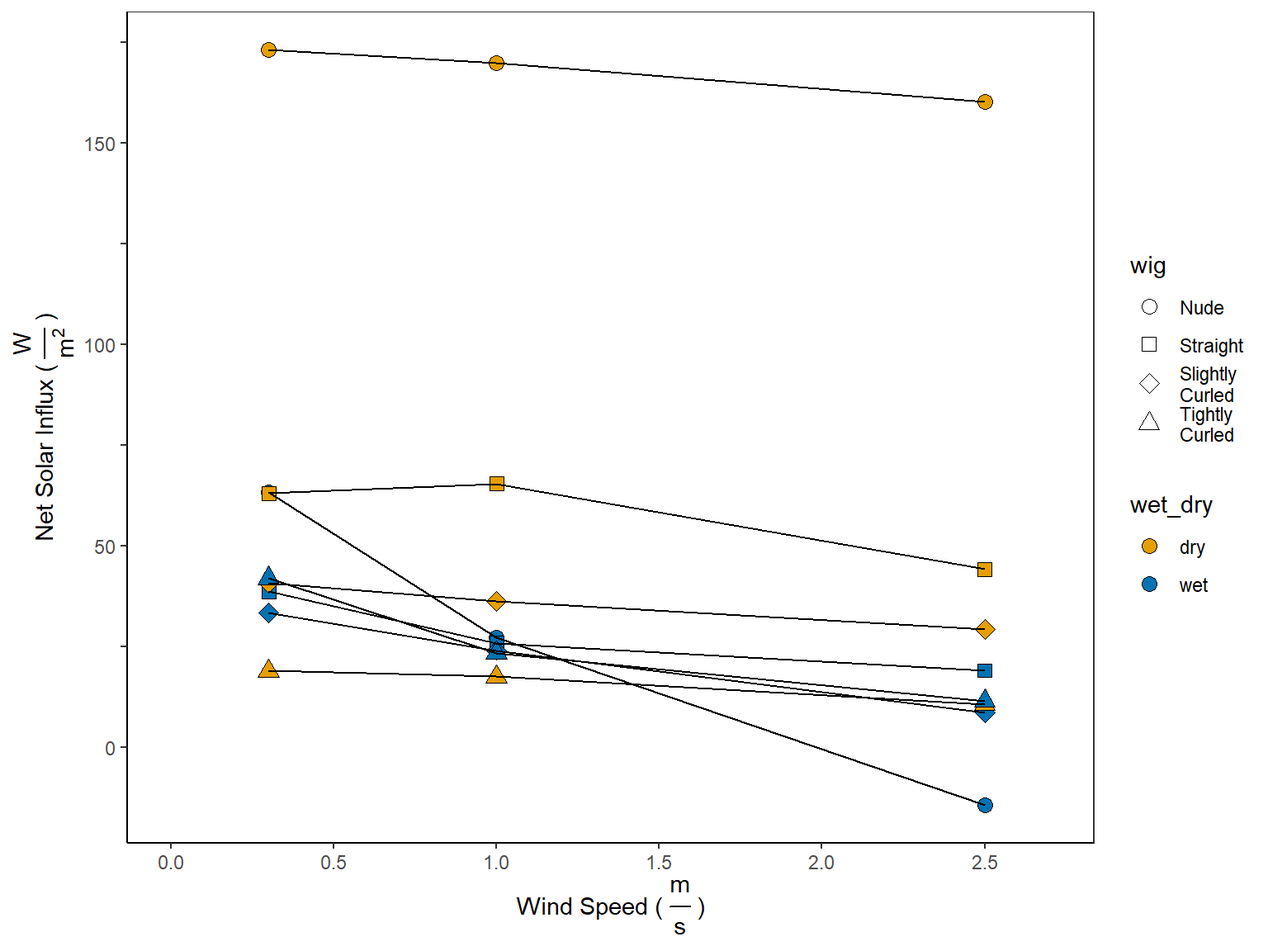
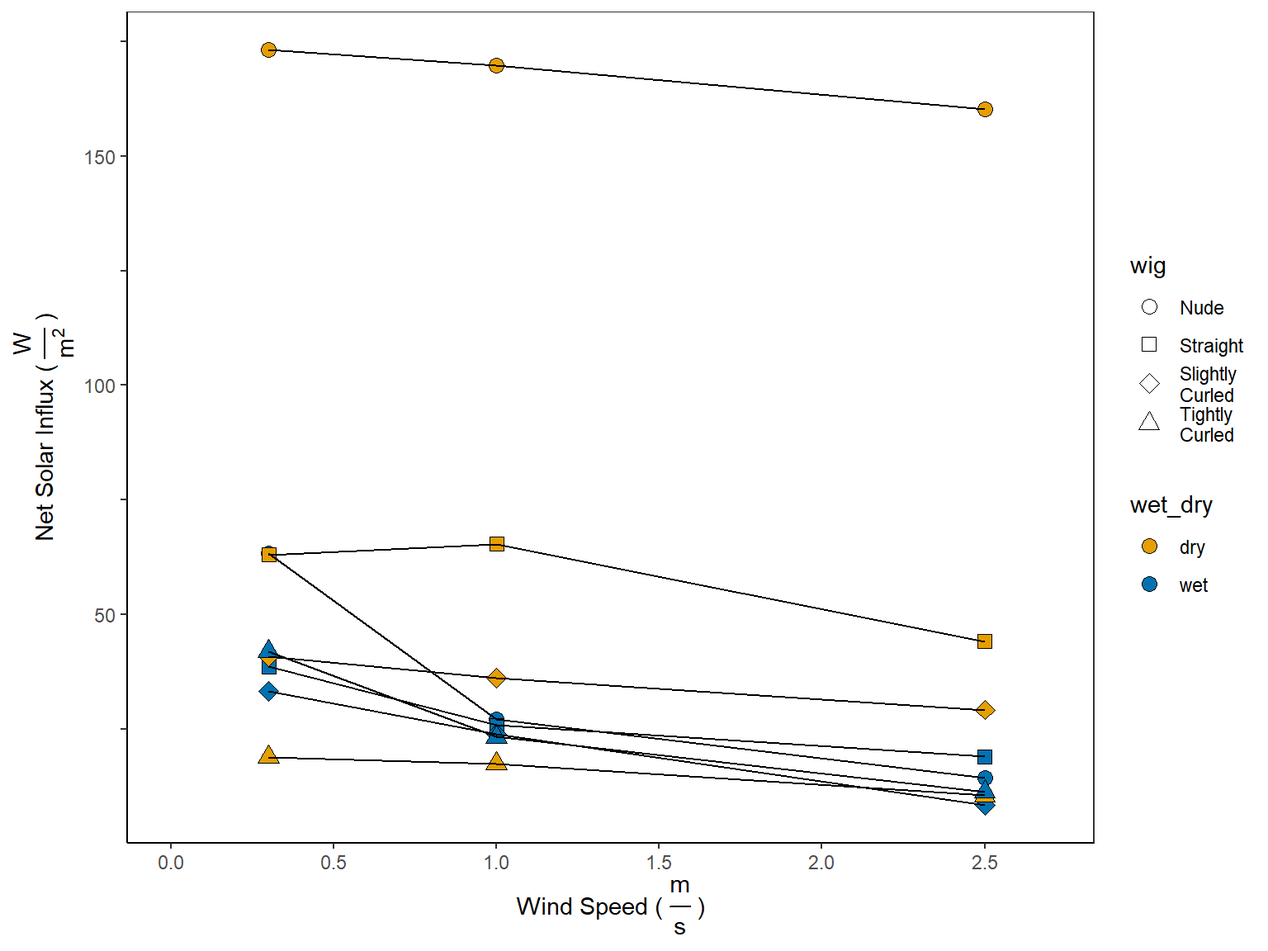
Fixed data input.

diff --git a/docs/analysis.html b/docs/analysis.html
@@ -522,15 +522,15 @@ project makes it easier to run your code on other machines.</p>
 <div class="panel panel-default">
 <div class="panel-heading">
 <p class="panel-title">
-<a data-toggle="collapse" data-parent="#workflowr-checks" href="#strongRepositoryversionstrongahrefhttpsgithubcomtinalasisiHairManikin2022tree993259136b4fb172cd362d89a44917e5fa0434betargetblank9932591a">
+<a data-toggle="collapse" data-parent="#workflowr-checks" href="#strongRepositoryversionstrongahrefhttpsgithubcomtinalasisiHairManikin2022tree60ac80ebbcab4e6ff3f059f82b27285690165adetargetblank60ac80ea">
 <span class="glyphicon glyphicon-ok text-success"
 aria-hidden="true"></span> <strong>Repository version:</strong>
-<a href="https://github.com/tinalasisi/HairManikin2022/tree/993259136b4fb172cd362d89a44917e5fa0434be" target="_blank">9932591</a>
+<a href="https://github.com/tinalasisi/HairManikin2022/tree/60ac80ebbcab4e6ff3f059f82b27285690165ade" target="_blank">60ac80e</a>
 </a>
 </p>
 </div>
 <div
[2 lines of base64/hex data omitted]
 class="panel-collapse collapse">
 <div class="panel-body">
 <p>
@@ -540,7 +540,7 @@ reproducibility.
 </p>
 <p>
 The results in this page were generated with repository version
-<a href="https://github.com/tinalasisi/HairManikin2022/tree/993259136b4fb172cd362d89a44917e5fa0434be" target="_blank">9932591</a>.
+<a href="https://github.com/tinalasisi/HairManikin2022/tree/60ac80ebbcab4e6ff3f059f82b27285690165ade" target="_blank">60ac80e</a>.
 See the <em>Past versions</em> tab to see a history of the changes made
 to the R Markdown and HTML files.
 </p>
@@ -558,16 +558,12 @@ Ignored files:
     Ignored:    .Rproj.user/
 
 Untracked files:
-    Untracked:  data/current/March2022Sheet.xlsx
-    Untracked:  data/current/reworked.csv
-    Untracked:  data/current/reworked.xlsx
-    Untracked:  data/current/reworkedUsable.csv
-    Untracked:  data/current/reworkedUsable2.csv
+    Untracked:  data/current/Aug2022.csv
     Untracked:  data/current/~$March2022Sheet.xlsx
-    Untracked:  dataPrep.rmd
 
 Unstaged changes:
     Modified:   analysis/analysis.Rmd
+    Modified:   analysis/dataPrep.rmd
 
 </code></pre>
 <p>
@@ -613,6 +609,76 @@ Message
 </tr>
 </thead>
 <tbody>
+<tr>
+<td>
+Rmd
+</td>
+<td>
+<a href="https://github.com/tinalasisi/HairManikin2022/blob/60ac80ebbcab4e6ff3f059f82b27285690165ade/analysis/analysis.Rmd" target="_blank">60ac80e</a>
+</td>
+<td>
+Ben Zydney
+</td>
+<td>
+2022-08-11
+</td>
+<td>
+Merge branch ‘main’ of <a
+href="https://github.com/tinalasisi/HairManikin2022"
+class="uri">https://github.com/tinalasisi/HairManikin2022</a>
+</td>
+</tr>
+<tr>
+<td>
+Rmd
+</td>
+<td>
+<a href="https://github.com/tinalasisi/HairManikin2022/blob/3a1d68cf44853b697e00dfc0536943e9ad45894e/analysis/analysis.Rmd" target="_blank">3a1d68c</a>
+</td>
+<td>
+Ben Zydney
+</td>
+<td>
+2022-08-11
+</td>
+<td>
+Updated analysis folder.
+</td>
+</tr>
+<tr>
+<td>
+html
+</td>
+<td>
+<a href="https://rawcdn.githack.com/tinalasisi/HairManikin2022/3a1d68cf44853b697e00dfc0536943e9ad45894e/docs/analysis.html" target="_blank">3a1d68c</a>
+</td>
+<td>
+Ben Zydney
+</td>
+<td>
+2022-08-11
+</td>
+<td>
+Updated analysis folder.
+</td>
+</tr>
+<tr>
+<td>
+Rmd
+</td>
+<td>
+<a href="https://github.com/tinalasisi/HairManikin2022/blob/78fb2fecfa3afacf6ee64f051bffbed28d9fe351/analysis/analysis.Rmd" target="_blank">78fb2fe</a>
+</td>
+<td>
+Tina Lasisi
+</td>
+<td>
+2022-08-11
+</td>
+<td>
+Updated plots + libraries
+</td>
+</tr>
 <tr>
 <td>
 html
@@ -1034,20 +1100,20 @@ Adding main analysis file
 <pre class="r"><code># Preview data
 head(df_wetdry)</code></pre>
 <table class="huxtable" style="border-collapse: collapse; border: 0px; margin-bottom: 2em; margin-top: 2em; ; margin-left: auto; margin-right: auto;  " id="tab:Data Preview">
-<col><col><col><col><col><col><col><col><col><col><col><col><tr>
-<th style="vertical-align: top; text-align: right; white-space: normal; border-style: solid solid solid solid; border-width: 0.4pt 0pt 0.4pt 0.4pt;    padding: 6pt 6pt 6pt 6pt; font-weight: bold;">wind</th><th style="vertical-align: top; text-align: left; white-space: normal; border-style: solid solid solid solid; border-width: 0.4pt 0pt 0.4pt 0pt;    padding: 6pt 6pt 6pt 6pt; font-weight: bold;">wig</th><th style="vertical-align: top; text-align: left; white-space: normal; border-style: solid solid solid solid; border-width: 0.4pt 0pt 0.4pt 0pt;    padding: 6pt 6pt 6pt 6pt; font-weight: bold;">wet_dry</th><th style="vertical-align: top; text-align: right; white-space: normal; border-style: solid solid solid solid; border-width: 0.4pt 0pt 0.4pt 0pt;    padding: 6pt 6pt 6pt 6pt; font-weight: bold;">heat_loss</th><th style="vertical-align: top; text-align: right; white-space: normal; border-style: solid solid solid solid; border-width: 0.4pt 0pt 0.4pt 0pt;    padding: 6pt 6pt 6pt 6pt; font-weight: bold;">skin_temp</th><th style="vertical-align: top; text-align: right; white-space: normal; border-style: solid solid solid solid; border-width: 0.4pt 0pt 0.4pt 0pt;    padding: 6pt 6pt 6pt 6pt; font-weight: bold;">resistance</th><th style="vertical-align: top; text-align: right; white-space: normal; border-style: solid solid solid solid; border-width: 0.4pt 0pt 0.4pt 0pt;    padding: 6pt 6pt 6pt 6pt; font-weight: bold;">clo</th><th style="vertical-align: top; text-align: right; white-space: normal; border-style: solid solid solid solid; border-width: 0.4pt 0pt 0.4pt 0pt;    padding: 6pt 6pt 6pt 6pt; font-weight: bold;">Mean Tsk (sel zones)</th><th style="vertical-align: top; text-align: right; white-space: normal; border-style: solid solid solid solid; border-width: 0.4pt 0pt 0.4pt 0pt;    padding: 6pt 6pt 6pt 6pt; font-weight: bold;">amb_temp</th><th style="vertical-align: top; text-align: right; white-space: normal; border-style: solid solid solid solid; border-width: 0.4pt 0pt 0.4pt 0pt;    padding: 6pt 6pt 6pt 6pt; font-weight: bold;">amb_rh</th><th style="vertical-align: top; text-align: left; white-space: normal; border-style: solid solid solid solid; border-width: 0.4pt 0pt 0.4pt 0pt;    padding: 6pt 6pt 6pt 6pt; font-weight: bold;">radiation</th><th style="vertical-align: top; text-align: left; white-space: normal; border-style: solid solid solid solid; border-width: 0.4pt 0.4pt 0.4pt 0pt;    padding: 6pt 6pt 6pt 6pt; font-weight: bold;">trial</th></tr>
+<col><col><col><col><col><col><col><col><col><col><col><tr>
+<th style="vertical-align: top; text-align: right; white-space: normal; border-style: solid solid solid solid; border-width: 0.4pt 0pt 0.4pt 0.4pt;    padding: 6pt 6pt 6pt 6pt; font-weight: bold;">wind</th><th style="vertical-align: top; text-align: left; white-space: normal; border-style: solid solid solid solid; border-width: 0.4pt 0pt 0.4pt 0pt;    padding: 6pt 6pt 6pt 6pt; font-weight: bold;">wig</th><th style="vertical-align: top; text-align: left; white-space: normal; border-style: solid solid solid solid; border-width: 0.4pt 0pt 0.4pt 0pt;    padding: 6pt 6pt 6pt 6pt; font-weight: bold;">wet_dry</th><th style="vertical-align: top; text-align: right; white-space: normal; border-style: solid solid solid solid; border-width: 0.4pt 0pt 0.4pt 0pt;    padding: 6pt 6pt 6pt 6pt; font-weight: bold;">heat_loss</th><th style="vertical-align: top; text-align: right; white-space: normal; border-style: solid solid solid solid; border-width: 0.4pt 0pt 0.4pt 0pt;    padding: 6pt 6pt 6pt 6pt; font-weight: bold;">skin_temp</th><th style="vertical-align: top; text-align: right; white-space: normal; border-style: solid solid solid solid; border-width: 0.4pt 0pt 0.4pt 0pt;    padding: 6pt 6pt 6pt 6pt; font-weight: bold;">resistance</th><th style="vertical-align: top; text-align: right; white-space: normal; border-style: solid solid solid solid; border-width: 0.4pt 0pt 0.4pt 0pt;    padding: 6pt 6pt 6pt 6pt; font-weight: bold;">clo</th><th style="vertical-align: top; text-align: right; white-space: normal; border-style: solid solid solid solid; border-width: 0.4pt 0pt 0.4pt 0pt;    padding: 6pt 6pt 6pt 6pt; font-weight: bold;">amb_temp</th><th style="vertical-align: top; text-align: right; white-space: normal; border-style: solid solid solid solid; border-width: 0.4pt 0pt 0.4pt 0pt;    padding: 6pt 6pt 6pt 6pt; font-weight: bold;">amb_rh</th><th style="vertical-align: top; text-align: left; white-space: normal; border-style: solid solid solid solid; border-width: 0.4pt 0pt 0.4pt 0pt;    padding: 6pt 6pt 6pt 6pt; font-weight: bold;">radiation</th><th style="vertical-align: top; text-align: left; white-space: normal; border-style: solid solid solid solid; border-width: 0.4pt 0.4pt 0.4pt 0pt;    padding: 6pt 6pt 6pt 6pt; font-weight: bold;">trial</th></tr>
 <tr>
-<td style="vertical-align: top; text-align: right; white-space: normal; border-style: solid solid solid solid; border-width: 0.4pt 0pt 0pt 0.4pt;    padding: 6pt 6pt 6pt 6pt; background-color: rgb(242, 242, 242); font-weight: normal;">0.3</td><td style="vertical-align: top; text-align: left; white-space: normal; border-style: solid solid solid solid; border-width: 0.4pt 0pt 0pt 0pt;    padding: 6pt 6pt 6pt 6pt; background-color: rgb(242, 242, 242); font-weight: normal;">Nude</td><td style="vertical-align: top; text-align: left; white-space: normal; border-style: solid solid solid solid; border-width: 0.4pt 0pt 0pt 0pt;    padding: 6pt 6pt 6pt 6pt; background-color: rgb(242, 242, 242); font-weight: normal;">wet</td><td style="vertical-align: top; text-align: right; white-space: normal; border-style: solid solid solid solid; border-width: 0.4pt 0pt 0pt 0pt;    padding: 6pt 6pt 6pt 6pt; background-color: rgb(242, 242, 242); font-weight: normal;">90.9</td><td style="vertical-align: top; text-align: right; white-space: normal; border-style: solid solid solid solid; border-width: 0.4pt 0pt 0pt 0pt;    padding: 6pt 6pt 6pt 6pt; background-color: rgb(242, 242, 242); font-weight: normal;">34</td><td style="vertical-align: top; text-align: right; white-space: normal; border-style: solid solid solid solid; border-width: 0.4pt 0pt 0pt 0pt;    padding: 6pt 6pt 6pt 6pt; background-color: rgb(242, 242, 242); font-weight: normal;">4.36e-08</td><td style="vertical-align: top; text-align: right; white-space: normal; border-style: solid solid solid solid; border-width: 0.4pt 0pt 0pt 0pt;    padding: 6pt 6pt 6pt 6pt; background-color: rgb(242, 242, 242); font-weight: normal;">2.81e-07</td><td style="vertical-align: top; text-align: right; white-space: normal; border-style: solid solid solid solid; border-width: 0.4pt 0pt 0pt 0pt;    padding: 6pt 6pt 6pt 6pt; background-color: rgb(242, 242, 242); font-weight: normal;">34.2</td><td style="vertical-align: top; text-align: right; white-space: normal; border-style: solid solid solid solid; border-width: 0.4pt 0pt 0pt 0pt;    padding: 6pt 6pt 6pt 6pt; background-color: rgb(242, 242, 242); font-weight: normal;">34&nbsp;&nbsp;</td><td style="vertical-align: top; text-align: right; white-space: normal; border-style: solid solid solid solid; border-width: 0.4pt 0pt 0pt 0pt;    padding: 6pt 6pt 6pt 6pt; background-color: rgb(242, 242, 242); font-weight: normal;">45.8</td><td style="vertical-align: top; text-align: left; white-space: normal; border-style: solid solid solid solid; border-width: 0.4pt 0pt 0pt 0pt;    padding: 6pt 6pt 6pt 6pt; background-color: rgb(242, 242, 242); font-weight: normal;">on</td><td style="vertical-align: top; text-align: left; white-space: normal; border-style: solid solid solid solid; border-width: 0.4pt 0.4pt 0pt 0pt;    padding: 6pt 6pt 6pt 6pt; background-color: rgb(242, 242, 242); font-weight: normal;">1</td></tr>
+<td style="vertical-align: top; text-align: right; white-space: normal; border-style: solid solid solid solid; border-width: 0.4pt 0pt 0pt 0.4pt;    padding: 6pt 6pt 6pt 6pt; background-color: rgb(242, 242, 242); font-weight: normal;">0.3</td><td style="vertical-align: top; text-align: left; white-space: normal; border-style: solid solid solid solid; border-width: 0.4pt 0pt 0pt 0pt;    padding: 6pt 6pt 6pt 6pt; background-color: rgb(242, 242, 242); font-weight: normal;">Nude</td><td style="vertical-align: top; text-align: left; white-space: normal; border-style: solid solid solid solid; border-width: 0.4pt 0pt 0pt 0pt;    padding: 6pt 6pt 6pt 6pt; background-color: rgb(242, 242, 242); font-weight: normal;">wet</td><td style="vertical-align: top; text-align: right; white-space: normal; border-style: solid solid solid solid; border-width: 0.4pt 0pt 0pt 0pt;    padding: 6pt 6pt 6pt 6pt; background-color: rgb(242, 242, 242); font-weight: normal;">90.9</td><td style="vertical-align: top; text-align: right; white-space: normal; border-style: solid solid solid solid; border-width: 0.4pt 0pt 0pt 0pt;    padding: 6pt 6pt 6pt 6pt; background-color: rgb(242, 242, 242); font-weight: normal;">34</td><td style="vertical-align: top; text-align: right; white-space: normal; border-style: solid solid solid solid; border-width: 0.4pt 0pt 0pt 0pt;    padding: 6pt 6pt 6pt 6pt; background-color: rgb(242, 242, 242); font-weight: normal;">4.36e-08</td><td style="vertical-align: top; text-align: right; white-space: normal; border-style: solid solid solid solid; border-width: 0.4pt 0pt 0pt 0pt;    padding: 6pt 6pt 6pt 6pt; background-color: rgb(242, 242, 242); font-weight: normal;">2.81e-07</td><td style="vertical-align: top; text-align: right; white-space: normal; border-style: solid solid solid solid; border-width: 0.4pt 0pt 0pt 0pt;    padding: 6pt 6pt 6pt 6pt; background-color: rgb(242, 242, 242); font-weight: normal;">34&nbsp;&nbsp;</td><td style="vertical-align: top; text-align: right; white-space: normal; border-style: solid solid solid solid; border-width: 0.4pt 0pt 0pt 0pt;    padding: 6pt 6pt 6pt 6pt; background-color: rgb(242, 242, 242); font-weight: normal;">45.8</td><td style="vertical-align: top; text-align: left; white-space: normal; border-style: solid solid solid solid; border-width: 0.4pt 0pt 0pt 0pt;    padding: 6pt 6pt 6pt 6pt; background-color: rgb(242, 242, 242); font-weight: normal;">on</td><td style="vertical-align: top; text-align: left; white-space: normal; border-style: solid solid solid solid; border-width: 0.4pt 0.4pt 0pt 0pt;    padding: 6pt 6pt 6pt 6pt; background-color: rgb(242, 242, 242); font-weight: normal;">1</td></tr>
 <tr>
-<td style="vertical-align: top; text-align: right; white-space: normal; border-style: solid solid solid solid; border-width: 0pt 0pt 0pt 0.4pt;    padding: 6pt 6pt 6pt 6pt; font-weight: normal;">0.3</td><td style="vertical-align: top; text-align: left; white-space: normal; padding: 6pt 6pt 6pt 6pt; font-weight: normal;">Nude</td><td style="vertical-align: top; text-align: left; white-space: normal; padding: 6pt 6pt 6pt 6pt; font-weight: normal;">wet</td><td style="vertical-align: top; text-align: right; white-space: normal; padding: 6pt 6pt 6pt 6pt; font-weight: normal;">86.7</td><td style="vertical-align: top; text-align: right; white-space: normal; padding: 6pt 6pt 6pt 6pt; font-weight: normal;">34</td><td style="vertical-align: top; text-align: right; white-space: normal; padding: 6pt 6pt 6pt 6pt; font-weight: normal;">-0.00121&nbsp;</td><td style="vertical-align: top; text-align: right; white-space: normal; padding: 6pt 6pt 6pt 6pt; font-weight: normal;">-0.00782&nbsp;</td><td style="vertical-align: top; text-align: right; white-space: normal; padding: 6pt 6pt 6pt 6pt; font-weight: normal;">34.2</td><td style="vertical-align: top; text-align: right; white-space: normal; padding: 6pt 6pt 6pt 6pt; font-weight: normal;">34.1</td><td style="vertical-align: top; text-align: right; white-space: normal; padding: 6pt 6pt 6pt 6pt; font-weight: normal;">45.8</td><td style="vertical-align: top; text-align: left; white-space: normal; padding: 6pt 6pt 6pt 6pt; font-weight: normal;">on</td><td style="vertical-align: top; text-align: left; white-space: normal; border-style: solid solid solid solid; border-width: 0pt 0.4pt 0pt 0pt;    padding: 6pt 6pt 6pt 6pt; font-weight: normal;">2</td></tr>
+<td style="vertical-align: top; text-align: right; white-space: normal; border-style: solid solid solid solid; border-width: 0pt 0pt 0pt 0.4pt;    padding: 6pt 6pt 6pt 6pt; font-weight: normal;">0.3</td><td style="vertical-align: top; text-align: left; white-space: normal; padding: 6pt 6pt 6pt 6pt; font-weight: normal;">Nude</td><td style="vertical-align: top; text-align: left; white-space: normal; padding: 6pt 6pt 6pt 6pt; font-weight: normal;">wet</td><td style="vertical-align: top; text-align: right; white-space: normal; padding: 6pt 6pt 6pt 6pt; font-weight: normal;">86.7</td><td style="vertical-align: top; text-align: right; white-space: normal; padding: 6pt 6pt 6pt 6pt; font-weight: normal;">34</td><td style="vertical-align: top; text-align: right; white-space: normal; padding: 6pt 6pt 6pt 6pt; font-weight: normal;">-0.00121&nbsp;</td><td style="vertical-align: top; text-align: right; white-space: normal; padding: 6pt 6pt 6pt 6pt; font-weight: normal;">-0.00782&nbsp;</td><td style="vertical-align: top; text-align: right; white-space: normal; padding: 6pt 6pt 6pt 6pt; font-weight: normal;">34.1</td><td style="vertical-align: top; text-align: right; white-space: normal; padding: 6pt 6pt 6pt 6pt; font-weight: normal;">45.8</td><td style="vertical-align: top; text-align: left; white-space: normal; padding: 6pt 6pt 6pt 6pt; font-weight: normal;">on</td><td style="vertical-align: top; text-align: left; white-space: normal; border-style: solid solid solid solid; border-width: 0pt 0.4pt 0pt 0pt;    padding: 6pt 6pt 6pt 6pt; font-weight: normal;">2</td></tr>
 <tr>
-<td style="vertical-align: top; text-align: right; white-space: normal; border-style: solid solid solid solid; border-width: 0pt 0pt 0pt 0.4pt;    padding: 6pt 6pt 6pt 6pt; background-color: rgb(242, 242, 242); font-weight: normal;">1&nbsp;&nbsp;</td><td style="vertical-align: top; text-align: left; white-space: normal; padding: 6pt 6pt 6pt 6pt; background-color: rgb(242, 242, 242); font-weight: normal;">Nude</td><td style="vertical-align: top; text-align: left; white-space: normal; padding: 6pt 6pt 6pt 6pt; background-color: rgb(242, 242, 242); font-weight: normal;">wet</td><td style="vertical-align: top; text-align: right; white-space: normal; padding: 6pt 6pt 6pt 6pt; background-color: rgb(242, 242, 242); font-weight: normal;">227&nbsp;&nbsp;</td><td style="vertical-align: top; text-align: right; white-space: normal; padding: 6pt 6pt 6pt 6pt; background-color: rgb(242, 242, 242); font-weight: normal;">34</td><td style="vertical-align: top; text-align: right; white-space: normal; padding: 6pt 6pt 6pt 6pt; background-color: rgb(242, 242, 242); font-weight: normal;">0.000119</td><td style="vertical-align: top; text-align: right; white-space: normal; padding: 6pt 6pt 6pt 6pt; background-color: rgb(242, 242, 242); font-weight: normal;">0.000767</td><td style="vertical-align: top; text-align: right; white-space: normal; padding: 6pt 6pt 6pt 6pt; background-color: rgb(242, 242, 242); font-weight: normal;">34.2</td><td style="vertical-align: top; text-align: right; white-space: normal; padding: 6pt 6pt 6pt 6pt; background-color: rgb(242, 242, 242); font-weight: normal;">34&nbsp;&nbsp;</td><td style="vertical-align: top; text-align: right; white-space: normal; padding: 6pt 6pt 6pt 6pt; background-color: rgb(242, 242, 242); font-weight: normal;">46.3</td><td style="vertical-align: top; text-align: left; white-space: normal; padding: 6pt 6pt 6pt 6pt; background-color: rgb(242, 242, 242); font-weight: normal;">on</td><td style="vertical-align: top; text-align: left; white-space: normal; border-style: solid solid solid solid; border-width: 0pt 0.4pt 0pt 0pt;    padding: 6pt 6pt 6pt 6pt; background-color: rgb(242, 242, 242); font-weight: normal;">1</td></tr>
+<td style="vertical-align: top; text-align: right; white-space: normal; border-style: solid solid solid solid; border-width: 0pt 0pt 0pt 0.4pt;    padding: 6pt 6pt 6pt 6pt; background-color: rgb(242, 242, 242); font-weight: normal;">1&nbsp;&nbsp;</td><td style="vertical-align: top; text-align: left; white-space: normal; padding: 6pt 6pt 6pt 6pt; background-color: rgb(242, 242, 242); font-weight: normal;">Nude</td><td style="vertical-align: top; text-align: left; white-space: normal; padding: 6pt 6pt 6pt 6pt; background-color: rgb(242, 242, 242); font-weight: normal;">wet</td><td style="vertical-align: top; text-align: right; white-space: normal; padding: 6pt 6pt 6pt 6pt; background-color: rgb(242, 242, 242); font-weight: normal;">227&nbsp;&nbsp;</td><td style="vertical-align: top; text-align: right; white-space: normal; padding: 6pt 6pt 6pt 6pt; background-color: rgb(242, 242, 242); font-weight: normal;">34</td><td style="vertical-align: top; text-align: right; white-space: normal; padding: 6pt 6pt 6pt 6pt; background-color: rgb(242, 242, 242); font-weight: normal;">0.000119</td><td style="vertical-align: top; text-align: right; white-space: normal; padding: 6pt 6pt 6pt 6pt; background-color: rgb(242, 242, 242); font-weight: normal;">0.000767</td><td style="vertical-align: top; text-align: right; white-space: normal; padding: 6pt 6pt 6pt 6pt; background-color: rgb(242, 242, 242); font-weight: normal;">34&nbsp;&nbsp;</td><td style="vertical-align: top; text-align: right; white-space: normal; padding: 6pt 6pt 6pt 6pt; background-color: rgb(242, 242, 242); font-weight: normal;">46.3</td><td style="vertical-align: top; text-align: left; white-space: normal; padding: 6pt 6pt 6pt 6pt; background-color: rgb(242, 242, 242); font-weight: normal;">on</td><td style="vertical-align: top; text-align: left; white-space: normal; border-style: solid solid solid solid; border-width: 0pt 0.4pt 0pt 0pt;    padding: 6pt 6pt 6pt 6pt; background-color: rgb(242, 242, 242); font-weight: normal;">1</td></tr>
 <tr>
-<td style="vertical-align: top; text-align: right; white-space: normal; border-style: solid solid solid solid; border-width: 0pt 0pt 0pt 0.4pt;    padding: 6pt 6pt 6pt 6pt; font-weight: normal;">2.5</td><td style="vertical-align: top; text-align: left; white-space: normal; padding: 6pt 6pt 6pt 6pt; font-weight: normal;">Nude</td><td style="vertical-align: top; text-align: left; white-space: normal; padding: 6pt 6pt 6pt 6pt; font-weight: normal;">wet</td><td style="vertical-align: top; text-align: right; white-space: normal; padding: 6pt 6pt 6pt 6pt; font-weight: normal;">288&nbsp;&nbsp;</td><td style="vertical-align: top; text-align: right; white-space: normal; padding: 6pt 6pt 6pt 6pt; font-weight: normal;">34</td><td style="vertical-align: top; text-align: right; white-space: normal; padding: 6pt 6pt 6pt 6pt; font-weight: normal;">2.85e-05</td><td style="vertical-align: top; text-align: right; white-space: normal; padding: 6pt 6pt 6pt 6pt; font-weight: normal;">0.000184</td><td style="vertical-align: top; text-align: right; white-space: normal; padding: 6pt 6pt 6pt 6pt; font-weight: normal;">34.2</td><td style="vertical-align: top; text-align: right; white-space: normal; padding: 6pt 6pt 6pt 6pt; font-weight: normal;">34&nbsp;&nbsp;</td><td style="vertical-align: top; text-align: right; white-space: normal; padding: 6pt 6pt 6pt 6pt; font-weight: normal;">47.1</td><td style="vertical-align: top; text-align: left; white-space: normal; padding: 6pt 6pt 6pt 6pt; font-weight: normal;">on</td><td style="vertical-align: top; text-align: left; white-space: normal; border-style: solid solid solid solid; border-width: 0pt 0.4pt 0pt 0pt;    padding: 6pt 6pt 6pt 6pt; font-weight: normal;">1</td></tr>
+<td style="vertical-align: top; text-align: right; white-space: normal; border-style: solid solid solid solid; border-width: 0pt 0pt 0pt 0.4pt;    padding: 6pt 6pt 6pt 6pt; font-weight: normal;">2.5</td><td style="vertical-align: top; text-align: left; white-space: normal; padding: 6pt 6pt 6pt 6pt; font-weight: normal;">Nude</td><td style="vertical-align: top; text-align: left; white-space: normal; padding: 6pt 6pt 6pt 6pt; font-weight: normal;">wet</td><td style="vertical-align: top; text-align: right; white-space: normal; padding: 6pt 6pt 6pt 6pt; font-weight: normal;">276&nbsp;&nbsp;</td><td style="vertical-align: top; text-align: right; white-space: normal; padding: 6pt 6pt 6pt 6pt; font-weight: normal;">34</td><td style="vertical-align: top; text-align: right; white-space: normal; padding: 6pt 6pt 6pt 6pt; font-weight: normal;">-0.00082&nbsp;</td><td style="vertical-align: top; text-align: right; white-space: normal; padding: 6pt 6pt 6pt 6pt; font-weight: normal;">-0.00529&nbsp;</td><td style="vertical-align: top; text-align: right; white-space: normal; padding: 6pt 6pt 6pt 6pt; font-weight: normal;">34.3</td><td style="vertical-align: top; text-align: right; white-space: normal; padding: 6pt 6pt 6pt 6pt; font-weight: normal;">48.2</td><td style="vertical-align: top; text-align: left; white-space: normal; padding: 6pt 6pt 6pt 6pt; font-weight: normal;">on</td><td style="vertical-align: top; text-align: left; white-space: normal; border-style: solid solid solid solid; border-width: 0pt 0.4pt 0pt 0pt;    padding: 6pt 6pt 6pt 6pt; font-weight: normal;">1</td></tr>
 <tr>
-<td style="vertical-align: top; text-align: right; white-space: normal; border-style: solid solid solid solid; border-width: 0pt 0pt 0pt 0.4pt;    padding: 6pt 6pt 6pt 6pt; background-color: rgb(242, 242, 242); font-weight: normal;">2.5</td><td style="vertical-align: top; text-align: left; white-space: normal; padding: 6pt 6pt 6pt 6pt; background-color: rgb(242, 242, 242); font-weight: normal;">Nude</td><td style="vertical-align: top; text-align: left; white-space: normal; padding: 6pt 6pt 6pt 6pt; background-color: rgb(242, 242, 242); font-weight: normal;">wet</td><td style="vertical-align: top; text-align: right; white-space: normal; padding: 6pt 6pt 6pt 6pt; background-color: rgb(242, 242, 242); font-weight: normal;">289&nbsp;&nbsp;</td><td style="vertical-align: top; text-align: right; white-space: normal; padding: 6pt 6pt 6pt 6pt; background-color: rgb(242, 242, 242); font-weight: normal;">34</td><td style="vertical-align: top; text-align: right; white-space: normal; padding: 6pt 6pt 6pt 6pt; background-color: rgb(242, 242, 242); font-weight: normal;">-1.25e-06</td><td style="vertical-align: top; text-align: right; white-space: normal; padding: 6pt 6pt 6pt 6pt; background-color: rgb(242, 242, 242); font-weight: normal;">-8.07e-06</td><td style="vertical-align: top; text-align: right; white-space: normal; padding: 6pt 6pt 6pt 6pt; background-color: rgb(242, 242, 242); font-weight: normal;">34.2</td><td style="vertical-align: top; text-align: right; white-space: normal; padding: 6pt 6pt 6pt 6pt; background-color: rgb(242, 242, 242); font-weight: normal;">34&nbsp;&nbsp;</td><td style="vertical-align: top; text-align: right; white-space: normal; padding: 6pt 6pt 6pt 6pt; background-color: rgb(242, 242, 242); font-weight: normal;">47&nbsp;&nbsp;</td><td style="vertical-align: top; text-align: left; white-space: normal; padding: 6pt 6pt 6pt 6pt; background-color: rgb(242, 242, 242); font-weight: normal;">on</td><td style="vertical-align: top; text-align: left; white-space: normal; border-style: solid solid solid solid; border-width: 0pt 0.4pt 0pt 0pt;    padding: 6pt 6pt 6pt 6pt; background-color: rgb(242, 242, 242); font-weight: normal;">2</td></tr>
+<td style="vertical-align: top; text-align: right; white-space: normal; border-style: solid solid solid solid; border-width: 0pt 0pt 0pt 0.4pt;    padding: 6pt 6pt 6pt 6pt; background-color: rgb(242, 242, 242); font-weight: normal;">2.5</td><td style="vertical-align: top; text-align: left; white-space: normal; padding: 6pt 6pt 6pt 6pt; background-color: rgb(242, 242, 242); font-weight: normal;">Nude</td><td style="vertical-align: top; text-align: left; white-space: normal; padding: 6pt 6pt 6pt 6pt; background-color: rgb(242, 242, 242); font-weight: normal;">wet</td><td style="vertical-align: top; text-align: right; white-space: normal; padding: 6pt 6pt 6pt 6pt; background-color: rgb(242, 242, 242); font-weight: normal;">272&nbsp;&nbsp;</td><td style="vertical-align: top; text-align: right; white-space: normal; padding: 6pt 6pt 6pt 6pt; background-color: rgb(242, 242, 242); font-weight: normal;">34</td><td style="vertical-align: top; text-align: right; white-space: normal; padding: 6pt 6pt 6pt 6pt; background-color: rgb(242, 242, 242); font-weight: normal;">-0.000804</td><td style="vertical-align: top; text-align: right; white-space: normal; padding: 6pt 6pt 6pt 6pt; background-color: rgb(242, 242, 242); font-weight: normal;">-0.00519&nbsp;</td><td style="vertical-align: top; text-align: right; white-space: normal; padding: 6pt 6pt 6pt 6pt; background-color: rgb(242, 242, 242); font-weight: normal;">34.2</td><td style="vertical-align: top; text-align: right; white-space: normal; padding: 6pt 6pt 6pt 6pt; background-color: rgb(242, 242, 242); font-weight: normal;">48.1</td><td style="vertical-align: top; text-align: left; white-space: normal; padding: 6pt 6pt 6pt 6pt; background-color: rgb(242, 242, 242); font-weight: normal;">on</td><td style="vertical-align: top; text-align: left; white-space: normal; border-style: solid solid solid solid; border-width: 0pt 0.4pt 0pt 0pt;    padding: 6pt 6pt 6pt 6pt; background-color: rgb(242, 242, 242); font-weight: normal;">2</td></tr>
 <tr>
-<td style="vertical-align: top; text-align: right; white-space: normal; border-style: solid solid solid solid; border-width: 0pt 0pt 0.4pt 0.4pt;    padding: 6pt 6pt 6pt 6pt; font-weight: normal;">0.3</td><td style="vertical-align: top; text-align: left; white-space: normal; border-style: solid solid solid solid; border-width: 0pt 0pt 0.4pt 0pt;    padding: 6pt 6pt 6pt 6pt; font-weight: normal;">Straight</td><td style="vertical-align: top; text-align: left; white-space: normal; border-style: solid solid solid solid; border-width: 0pt 0pt 0.4pt 0pt;    padding: 6pt 6pt 6pt 6pt; font-weight: normal;">wet</td><td style="vertical-align: top; text-align: right; white-space: normal; border-style: solid solid solid solid; border-width: 0pt 0pt 0.4pt 0pt;    padding: 6pt 6pt 6pt 6pt; font-weight: normal;">30&nbsp;&nbsp;</td><td style="vertical-align: top; text-align: right; white-space: normal; border-style: solid solid solid solid; border-width: 0pt 0pt 0.4pt 0pt;    padding: 6pt 6pt 6pt 6pt; font-weight: normal;">34</td><td style="vertical-align: top; text-align: right; white-space: normal; border-style: solid solid solid solid; border-width: 0pt 0pt 0.4pt 0pt;    padding: 6pt 6pt 6pt 6pt; font-weight: normal;">-0.00422&nbsp;</td><td style="vertical-align: top; text-align: right; white-space: normal; border-style: solid solid solid solid; border-width: 0pt 0pt 0.4pt 0pt;    padding: 6pt 6pt 6pt 6pt; font-weight: normal;">-0.0272&nbsp;&nbsp;</td><td style="vertical-align: top; text-align: right; white-space: normal; border-style: solid solid solid solid; border-width: 0pt 0pt 0.4pt 0pt;    padding: 6pt 6pt 6pt 6pt; font-weight: normal;">34.2</td><td style="vertical-align: top; text-align: right; white-space: normal; border-style: solid solid solid solid; border-width: 0pt 0pt 0.4pt 0pt;    padding: 6pt 6pt 6pt 6pt; font-weight: normal;">34.1</td><td style="vertical-align: top; text-align: right; white-space: normal; border-style: solid solid solid solid; border-width: 0pt 0pt 0.4pt 0pt;    padding: 6pt 6pt 6pt 6pt; font-weight: normal;">45.4</td><td style="vertical-align: top; text-align: left; white-space: normal; border-style: solid solid solid solid; border-width: 0pt 0pt 0.4pt 0pt;    padding: 6pt 6pt 6pt 6pt; font-weight: normal;">on</td><td style="vertical-align: top; text-align: left; white-space: normal; border-style: solid solid solid solid; border-width: 0pt 0.4pt 0.4pt 0pt;    padding: 6pt 6pt 6pt 6pt; font-weight: normal;">1</td></tr>
+<td style="vertical-align: top; text-align: right; white-space: normal; border-style: solid solid solid solid; border-width: 0pt 0pt 0.4pt 0.4pt;    padding: 6pt 6pt 6pt 6pt; font-weight: normal;">0.3</td><td style="vertical-align: top; text-align: left; white-space: normal; border-style: solid solid solid solid; border-width: 0pt 0pt 0.4pt 0pt;    padding: 6pt 6pt 6pt 6pt; font-weight: normal;">Straight</td><td style="vertical-align: top; text-align: left; white-space: normal; border-style: solid solid solid solid; border-width: 0pt 0pt 0.4pt 0pt;    padding: 6pt 6pt 6pt 6pt; font-weight: normal;">wet</td><td style="vertical-align: top; text-align: right; white-space: normal; border-style: solid solid solid solid; border-width: 0pt 0pt 0.4pt 0pt;    padding: 6pt 6pt 6pt 6pt; font-weight: normal;">30&nbsp;&nbsp;</td><td style="vertical-align: top; text-align: right; white-space: normal; border-style: solid solid solid solid; border-width: 0pt 0pt 0.4pt 0pt;    padding: 6pt 6pt 6pt 6pt; font-weight: normal;">34</td><td style="vertical-align: top; text-align: right; white-space: normal; border-style: solid solid solid solid; border-width: 0pt 0pt 0.4pt 0pt;    padding: 6pt 6pt 6pt 6pt; font-weight: normal;">-0.00422&nbsp;</td><td style="vertical-align: top; text-align: right; white-space: normal; border-style: solid solid solid solid; border-width: 0pt 0pt 0.4pt 0pt;    padding: 6pt 6pt 6pt 6pt; font-weight: normal;">-0.0272&nbsp;&nbsp;</td><td style="vertical-align: top; text-align: right; white-space: normal; border-style: solid solid solid solid; border-width: 0pt 0pt 0.4pt 0pt;    padding: 6pt 6pt 6pt 6pt; font-weight: normal;">34.1</td><td style="vertical-align: top; text-align: right; white-space: normal; border-style: solid solid solid solid; border-width: 0pt 0pt 0.4pt 0pt;    padding: 6pt 6pt 6pt 6pt; font-weight: normal;">45.4</td><td style="vertical-align: top; text-align: left; white-space: normal; border-style: solid solid solid solid; border-width: 0pt 0pt 0.4pt 0pt;    padding: 6pt 6pt 6pt 6pt; font-weight: normal;">on</td><td style="vertical-align: top; text-align: left; white-space: normal; border-style: solid solid solid solid; border-width: 0pt 0.4pt 0.4pt 0pt;    padding: 6pt 6pt 6pt 6pt; font-weight: normal;">1</td></tr>
 </table>
 
 <p><img src="figure/analysis.Rmd/General%20Plots-1.png" width="768" style="display: block; margin: auto;" /></p>
@@ -1059,15 +1125,8 @@ of the trials with radiation off. With the understanding that radiation
 should always decrease heat loss, we elected to remove that data
 point.</p>
 <pre class="r"><code># Remove specific entry
-df_wetdry %&gt;% filter((wig == &quot;Tightly\nCurled&quot; &amp; wind == 2.5 &amp; radiation == &quot;on&quot; &amp; wet_dry == &quot;wet&quot; &amp; trial == &quot;1&quot;))</code></pre>
-<table class="huxtable" style="border-collapse: collapse; border: 0px; margin-bottom: 2em; margin-top: 2em; ; margin-left: auto; margin-right: auto;  " id="tab:Outlier">
-<col><col><col><col><col><col><col><col><col><col><col><col><tr>
-<th style="vertical-align: top; text-align: right; white-space: normal; border-style: solid solid solid solid; border-width: 0.4pt 0pt 0.4pt 0.4pt;    padding: 6pt 6pt 6pt 6pt; font-weight: bold;">wind</th><th style="vertical-align: top; text-align: left; white-space: normal; border-style: solid solid solid solid; border-width: 0.4pt 0pt 0.4pt 0pt;    padding: 6pt 6pt 6pt 6pt; font-weight: bold;">wig</th><th style="vertical-align: top; text-align: left; white-space: normal; border-style: solid solid solid solid; border-width: 0.4pt 0pt 0.4pt 0pt;    padding: 6pt 6pt 6pt 6pt; font-weight: bold;">wet_dry</th><th style="vertical-align: top; text-align: right; white-space: normal; border-style: solid solid solid solid; border-width: 0.4pt 0pt 0.4pt 0pt;    padding: 6pt 6pt 6pt 6pt; font-weight: bold;">heat_loss</th><th style="vertical-align: top; text-align: right; white-space: normal; border-style: solid solid solid solid; border-width: 0.4pt 0pt 0.4pt 0pt;    padding: 6pt 6pt 6pt 6pt; font-weight: bold;">skin_temp</th><th style="vertical-align: top; text-align: right; white-space: normal; border-style: solid solid solid solid; border-width: 0.4pt 0pt 0.4pt 0pt;    padding: 6pt 6pt 6pt 6pt; font-weight: bold;">resistance</th><th style="vertical-align: top; text-align: right; white-space: normal; border-style: solid solid solid solid; border-width: 0.4pt 0pt 0.4pt 0pt;    padding: 6pt 6pt 6pt 6pt; font-weight: bold;">clo</th><th style="vertical-align: top; text-align: right; white-space: normal; border-style: solid solid solid solid; border-width: 0.4pt 0pt 0.4pt 0pt;    padding: 6pt 6pt 6pt 6pt; font-weight: bold;">Mean Tsk (sel zones)</th><th style="vertical-align: top; text-align: right; white-space: normal; border-style: solid solid solid solid; border-width: 0.4pt 0pt 0.4pt 0pt;    padding: 6pt 6pt 6pt 6pt; font-weight: bold;">amb_temp</th><th style="vertical-align: top; text-align: right; white-space: normal; border-style: solid solid solid solid; border-width: 0.4pt 0pt 0.4pt 0pt;    padding: 6pt 6pt 6pt 6pt; font-weight: bold;">amb_rh</th><th style="vertical-align: top; text-align: left; white-space: normal; border-style: solid solid solid solid; border-width: 0.4pt 0pt 0.4pt 0pt;    padding: 6pt 6pt 6pt 6pt; font-weight: bold;">radiation</th><th style="vertical-align: top; text-align: left; white-space: normal; border-style: solid solid solid solid; border-width: 0.4pt 0.4pt 0.4pt 0pt;    padding: 6pt 6pt 6pt 6pt; font-weight: bold;">trial</th></tr>
-<tr>
-<td style="vertical-align: top; text-align: right; white-space: normal; border-style: solid solid solid solid; border-width: 0.4pt 0pt 0.4pt 0.4pt;    padding: 6pt 6pt 6pt 6pt; background-color: rgb(242, 242, 242); font-weight: normal;">2.5</td><td style="vertical-align: top; text-align: left; white-space: normal; border-style: solid solid solid solid; border-width: 0.4pt 0pt 0.4pt 0pt;    padding: 6pt 6pt 6pt 6pt; background-color: rgb(242, 242, 242); font-weight: normal;">Tightly<br>Curled</td><td style="vertical-align: top; text-align: left; white-space: normal; border-style: solid solid solid solid; border-width: 0.4pt 0pt 0.4pt 0pt;    padding: 6pt 6pt 6pt 6pt; background-color: rgb(242, 242, 242); font-weight: normal;">wet</td><td style="vertical-align: top; text-align: right; white-space: normal; border-style: solid solid solid solid; border-width: 0.4pt 0pt 0.4pt 0pt;    padding: 6pt 6pt 6pt 6pt; background-color: rgb(242, 242, 242); font-weight: normal;">149</td><td style="vertical-align: top; text-align: right; white-space: normal; border-style: solid solid solid solid; border-width: 0.4pt 0pt 0.4pt 0pt;    padding: 6pt 6pt 6pt 6pt; background-color: rgb(242, 242, 242); font-weight: normal;">34</td><td style="vertical-align: top; text-align: right; white-space: normal; border-style: solid solid solid solid; border-width: 0.4pt 0pt 0.4pt 0pt;    padding: 6pt 6pt 6pt 6pt; background-color: rgb(242, 242, 242); font-weight: normal;">5.4e-05</td><td style="vertical-align: top; text-align: right; white-space: normal; border-style: solid solid solid solid; border-width: 0.4pt 0pt 0.4pt 0pt;    padding: 6pt 6pt 6pt 6pt; background-color: rgb(242, 242, 242); font-weight: normal;">0.000348</td><td style="vertical-align: top; text-align: right; white-space: normal; border-style: solid solid solid solid; border-width: 0.4pt 0pt 0.4pt 0pt;    padding: 6pt 6pt 6pt 6pt; background-color: rgb(242, 242, 242); font-weight: normal;">34.2</td><td style="vertical-align: top; text-align: right; white-space: normal; border-style: solid solid solid solid; border-width: 0.4pt 0pt 0.4pt 0pt;    padding: 6pt 6pt 6pt 6pt; background-color: rgb(242, 242, 242); font-weight: normal;">34</td><td style="vertical-align: top; text-align: right; white-space: normal; border-style: solid solid solid solid; border-width: 0.4pt 0pt 0.4pt 0pt;    padding: 6pt 6pt 6pt 6pt; background-color: rgb(242, 242, 242); font-weight: normal;">46.9</td><td style="vertical-align: top; text-align: left; white-space: normal; border-style: solid solid solid solid; border-width: 0.4pt 0pt 0.4pt 0pt;    padding: 6pt 6pt 6pt 6pt; background-color: rgb(242, 242, 242); font-weight: normal;">on</td><td style="vertical-align: top; text-align: left; white-space: normal; border-style: solid solid solid solid; border-width: 0.4pt 0.4pt 0.4pt 0pt;    padding: 6pt 6pt 6pt 6pt; background-color: rgb(242, 242, 242); font-weight: normal;">1</td></tr>
-</table>
-
-<pre class="r"><code>df_wetdry &lt;- df_wetdry %&gt;% filter(!(wig == &quot;Tightly\nCurled&quot; &amp; wind == 2.5 &amp; radiation == &quot;on&quot; &amp; wet_dry == &quot;wet&quot; &amp; trial == &quot;1&quot;))</code></pre>
+df_wetdry &lt;- df_wetdry %&gt;% filter(!(wig == &quot;Tightly\nCurled&quot; &amp; wind == 2.5 &amp; radiation == &quot;on&quot; &amp; wet_dry == &quot;wet&quot; &amp; trial == &quot;1&quot;))</code></pre>
+<p><img src="figure/analysis.Rmd/General%20After%20Outliar%20Removal-1.png" width="768" style="display: block; margin: auto;" /></p>
 </div>
 </div>
 <div id="calculating-thermal-resistance" class="section level1"
@@ -1186,6 +1245,7 @@ C,\:Solar} * 3600}{2430}\]</span></p>
 3600}{2430} \\
 ELSE, \; Sweat_{Zero} = 0\]</span></p>
 <pre class="r"><code># Create a new df with the sweat requirements
+
 df_sweat_requirements &lt;- data.frame(
   sweat_max &lt;- df_evaporative_potential * 3600 / 2430,
   sweat_zero &lt;- -3600 / 2430 * df_adjusted_solar[&#39;dry_heat_loss&#39;],
